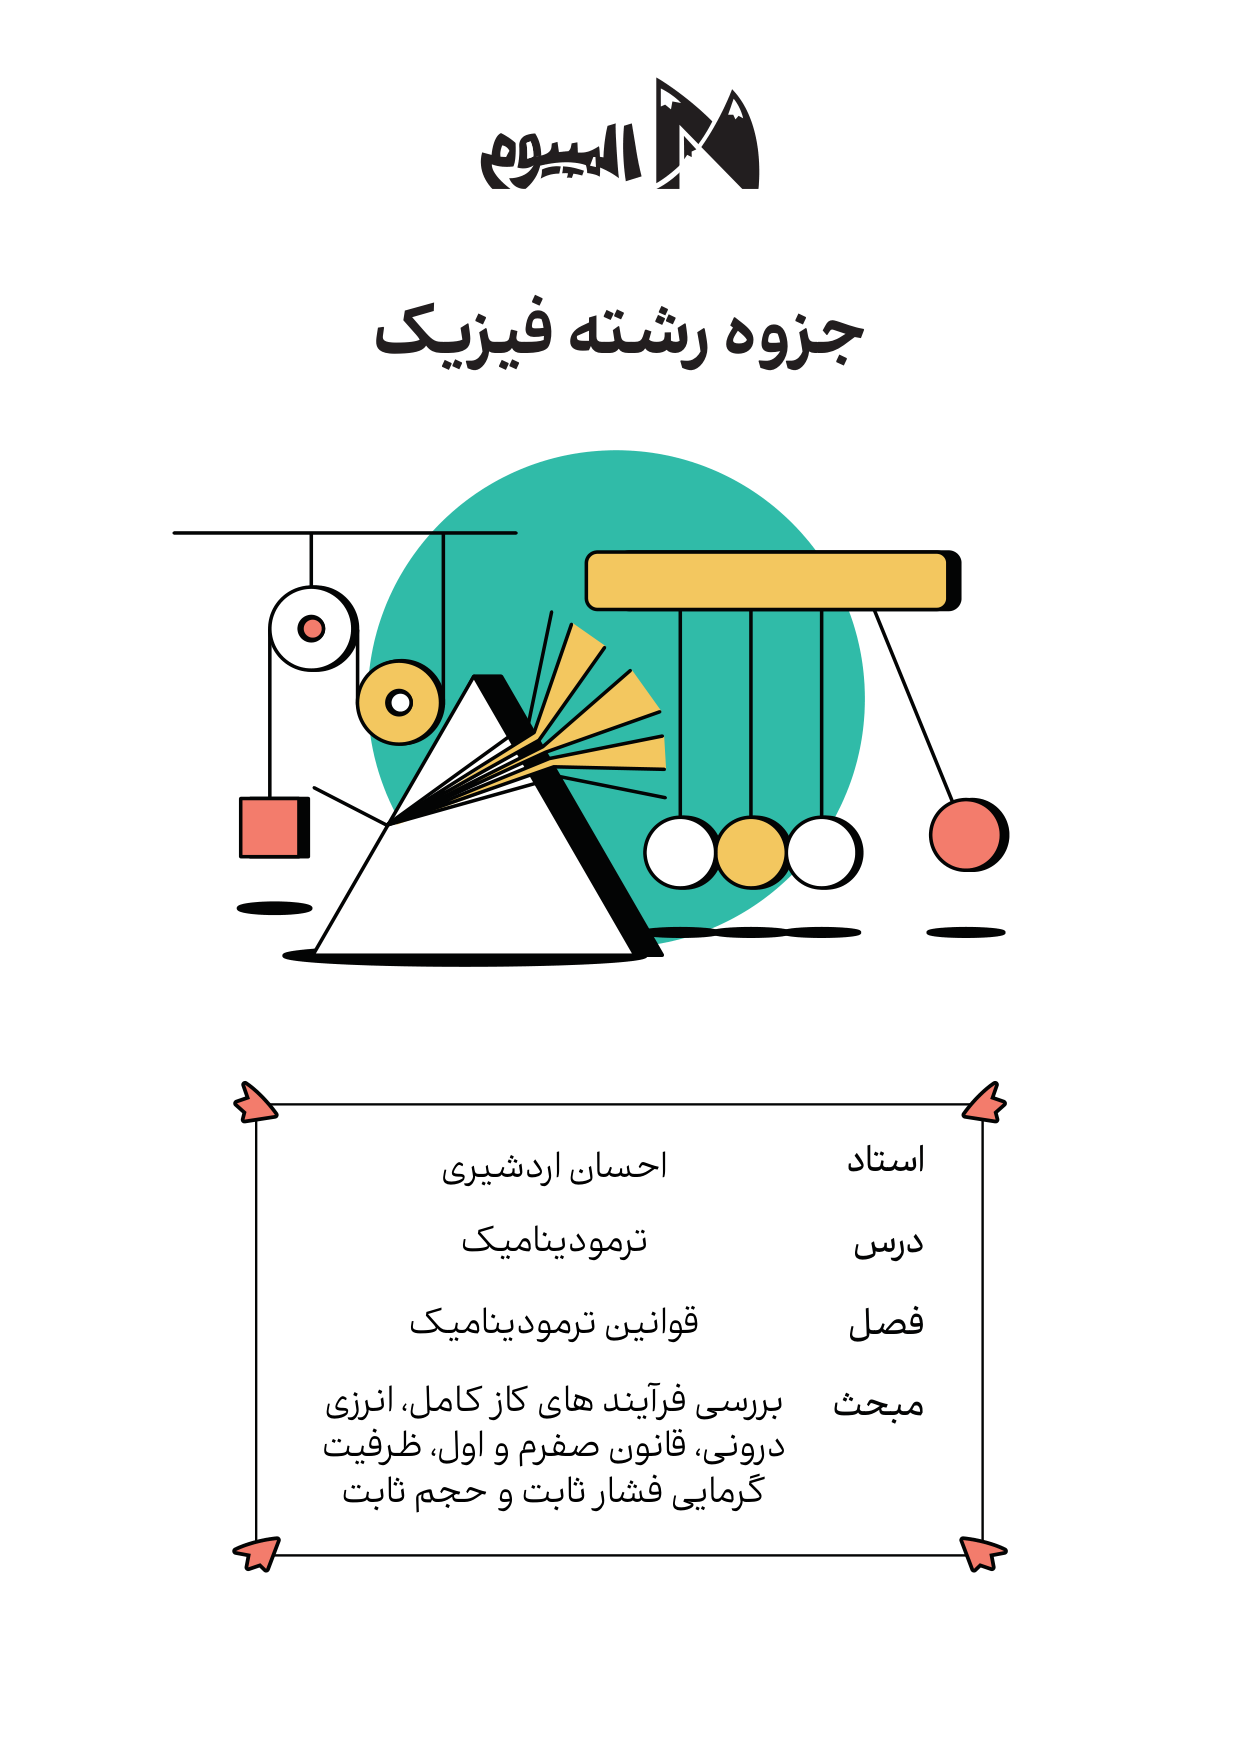
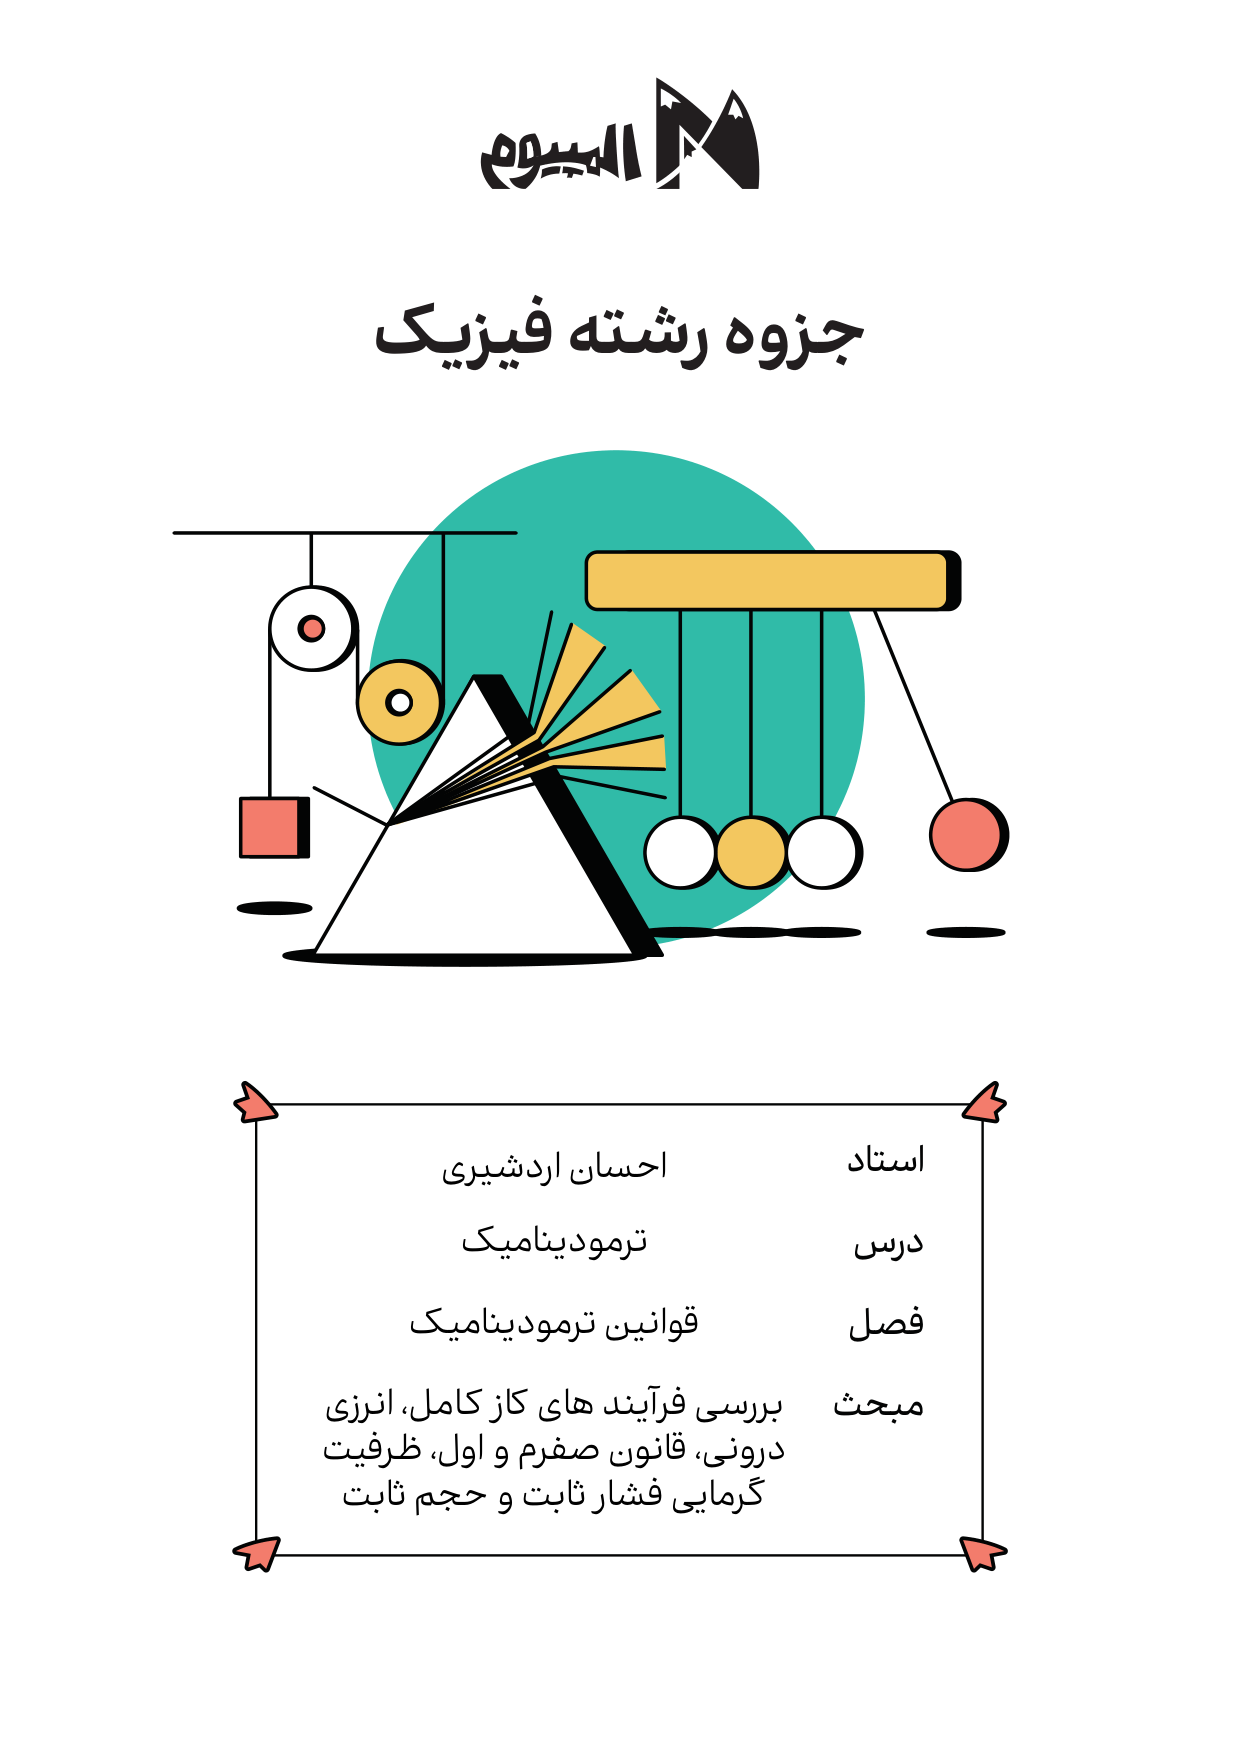
step 2b: align topic first line with its label

Changed region(s): [[0.245, 0.7697, 0.643, 0.862]]

diff --git a/cover.py b/cover.py
@@ -109,7 +109,8 @@ def _story(value, size, font_path, settings):
                       user_css=css, archive=fitz.Archive(str(font_path.parent)))
 
 
-def _fit_value(value, region, label_size, max_lines, page_rect, font_path, settings):
+def _fit_value(value, region, label_size, max_lines, page_rect, font_path, settings,
+               first_line_row_height=None):
     if not isinstance(value, str) or not value.strip():
         raise TextFitError('Cover values must be nonempty strings')
     minimum = settings['min_scale']
@@ -126,6 +127,12 @@ def _fit_value(value, region, label_size, max_lines, page_rect, font_path, setti
             continue
         # Deliberately taller than the region: clipping cannot conceal a vertical spill.
         y = region.y0 + (region.height - height) / 2
+        if first_line_row_height is not None:
+            # Anchor the first topic line like a single line in the preceding row.
+            # Extra lines extend downwards; keep the original region and font floor.
+            y = region.y0 + (first_line_row_height - size * settings["line_height"]) / 2
+            if y < region.y0 or y + height > region.y1:
+                continue
         draw_box = fitz.Rect(region.x0, y, region.x1, y + height + size * settings['guard_em'])
         layer = fitz.open()
         p = layer.new_page(width=page_rect.width, height=page_rect.height)
@@ -174,7 +181,10 @@ def build_cover(template_index, orientation, values, config_path=DEFAULT_CONFIG)
         # Finish all fits before modifying the base page, so a failure yields no partial cover.
         for field, limit in zip(settings['fields'], settings['max_lines']):
             layer, record = _fit_value(values[field], regions[field], sizes[field], limit,
-                                       page.rect, assets['font'], settings)
+                                       page.rect, assets['font'], settings,
+                                       first_line_row_height=(
+                                           regions[settings['fields'][-2]].height
+                                           if field == settings['fields'][-1] else None))
             layers.append(layer); report['fields'][field] = record
         for field, layer in zip(settings['fields'], layers):
             page.draw_rect(regions[field], color=None, fill=(1, 1, 1), overlay=True)
